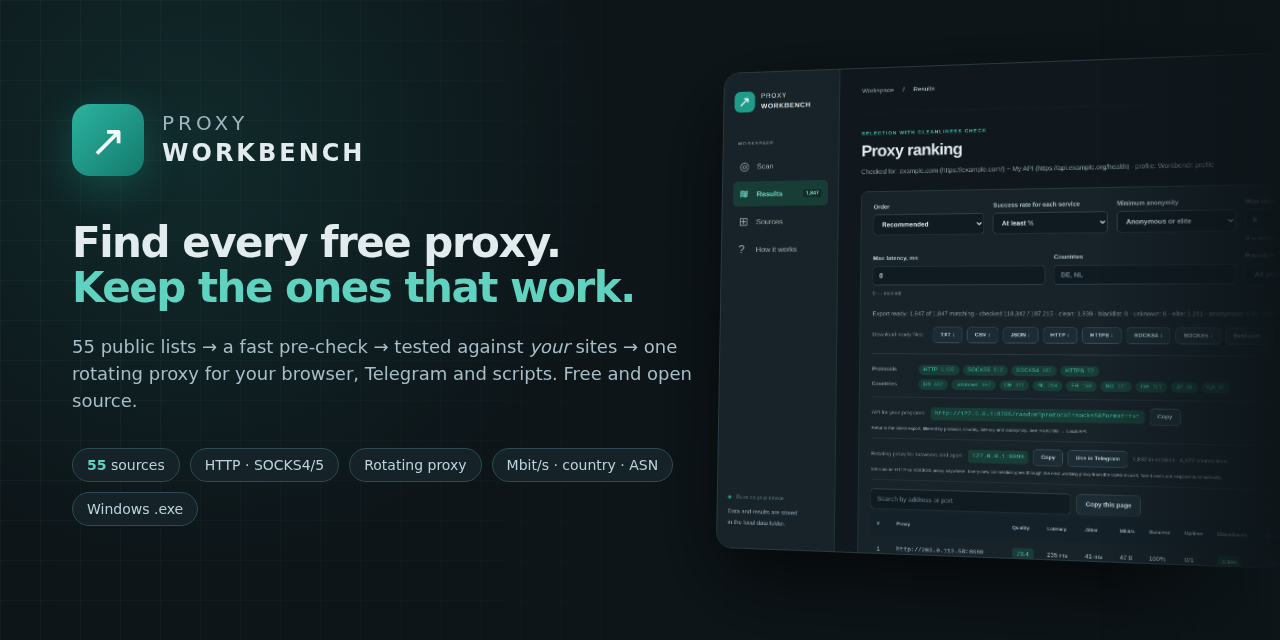
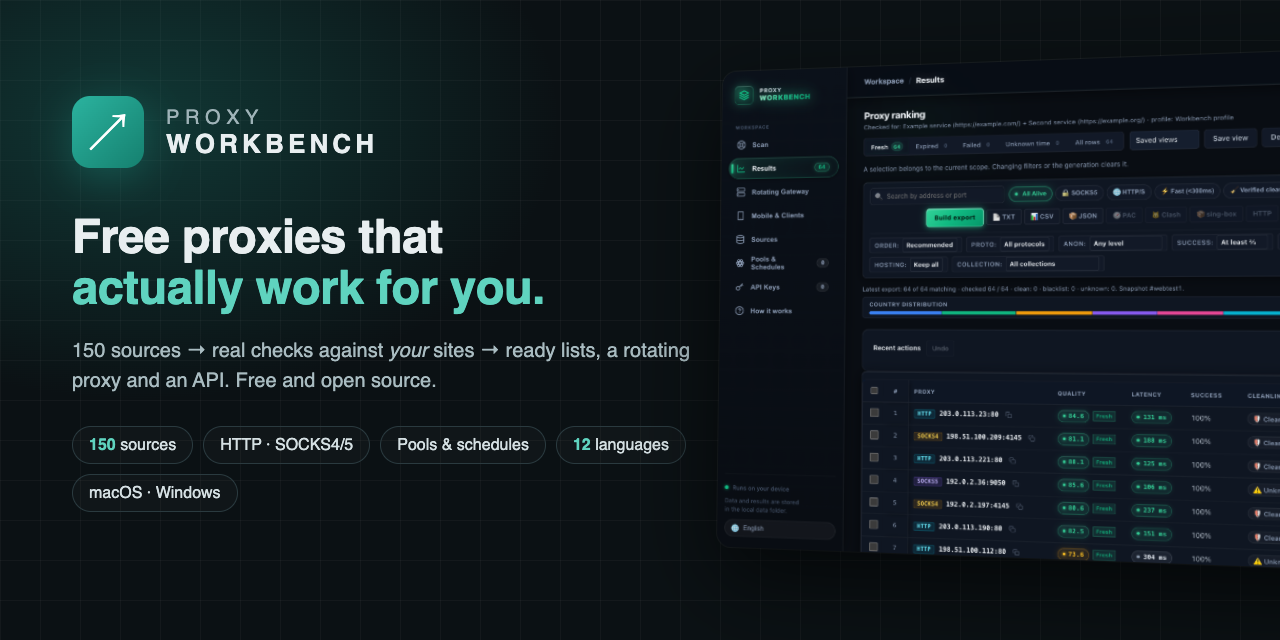
Clearer README headline and intro, new demo animation and social preview

diff --git a/docs/index.html b/docs/index.html
@@ -73,7 +73,7 @@ footer{padding:56px 0 40px;color:var(--muted);font-size:14px;display:flex;flex-w
       <a class="btn" data-repo href="#">★ Star on GitHub</a>
     </div>
     <div class="meta">Free &amp; open source (MIT) · Windows · macOS · Linux · Docker · 12 languages</div>
-    <div class="demo"><img src="assets/demo.gif" alt="Proxy Workbench demo: start a scan, see ranked proxies, filter elite ones" width="960" height="570" loading="lazy"></div>
+    <div class="demo"><img src="assets/demo.gif" alt="Proxy Workbench demo: set up a check, see ranked proxies, filter elite ones, open details, switch language" width="960" height="600" loading="lazy"></div>
   </header>
 
   <section id="features">

diff --git a/README.ru.md b/README.ru.md
@@ -4,9 +4,11 @@
 
 # Proxy Workbench
 
-**Собирает бесплатные публичные прокси из каталога на 150 записей, включая 98 доступных для сбора лент, проверяет каждый на _ваших_ сервисах и оставляет только быстрые, стабильные, чистые и анонимные.**
+### Находит бесплатные прокси, которые реально работают — на нужных вам сайтах
 
-Приложение для macOS и Windows · интерфейс в браузере на 12 языках · CLI · HTTP / HTTPS (CONNECT) / SOCKS4 / SOCKS5 · пулы, расписания и ротирующий шлюз · без аккаунтов и телеметрии
+Программа сама собирает бесплатные прокси из **150 открытых источников**, проверяет каждый на тех сайтах и сервисах, которые нужны **именно вам**, и оставляет только рабочие. Результат — готовые списки, один **ротирующий прокси** для браузера, Telegram и любых программ или **API** для ваших скриптов.
+
+Работает на вашем компьютере: приложение для macOS и Windows, командная строка, Docker · HTTP, HTTPS, SOCKS4, SOCKS5 · 12 языков · без регистрации и телеметрии
 
 ![Python 3.11+](https://img.shields.io/badge/python-3.11%2B-3776AB?logo=python&logoColor=white)
 ![License: MIT](https://img.shields.io/badge/license-MIT-2ea44f)
@@ -22,7 +24,7 @@
 
 <img src="docs/assets/demo.gif" alt="Демо Proxy Workbench: проверка, рейтинг, фильтр элитных прокси" width="100%">
 
-<sub>15 секунд: запуск проверки → рейтинг → фильтр «только элитные» → детали попыток (синтетические данные).</sub>
+<sub>Коротко: настройка проверки → рейтинг → фильтр «только элитные» → детали попыток → источники → смена языка (синтетические данные).</sub>
 
 </div>
 
@@ -30,15 +32,13 @@
 
 > **Статус:** публичная beta. Проект измеряет доступность и задержку; он не обещает анонимность, безопасность или стабильную работу сторонних прокси.
 
-## Зачем это нужно
+## Что делает программа
 
-Списков бесплатных прокси много, но большая часть адресов в них мёртвые, медленные или заблокированы именно на том сайте, который вам нужен. Прокси, который открывает `example.com`, может не работать с вашим API, отдавать капчу с кодом `200` или находиться в спам-блеклисте.
+Списков бесплатных прокси много, но большинство адресов в них мёртвые, медленные или заблокированы как раз на том сайте, который вам нужен. Proxy Workbench делает всю грязную работу за три шага:
 
-**Proxy Workbench отвечает на практический вопрос: _какие из этих прокси действительно работают с моим сервисом прямо сейчас и насколько хорошо?_**
-
-- Собирает кандидатов из десятков публичных списков (или ваших файлов) и убирает дубликаты.
-- Делает **настоящие HTTP(S)-запросы через каждый прокси** ко всем указанным сервисам — несколько раз — и проверяет HTTP-код, текст ответа или SHA-256.
-- Ранжирует прошедшие по **медианной задержке, разбросу и доле успехов**, отмечает **адреса из блеклистов** (локальный denylist + опциональные DNSBL), определяет **уровень анонимности** (прозрачный / анонимный / элитный) и экспортирует TXT / CSV / JSON и готовые списки `host:port` по протоколам.
+1. **Собирает.** Скачивает адреса из 150 открытых источников (106 подключены сразу) или из ваших файлов и убирает дубликаты.
+2. **Проверяет.** Отправляет через каждый прокси настоящие запросы к вашим сайтам — по несколько раз — и смотрит код ответа, нужный текст на странице и скорость. Дополнительно определяет страну, анонимность (прозрачный / анонимный / элитный) и чистоту IP.
+3. **Отдаёт готовое.** Лучшие прокси — в файлах TXT / CSV / JSON, в конфигурациях для браузера, Clash и sing-box, через ротирующий прокси `127.0.0.1:8899` или через API. Пулы и расписания держат список свежим сами.
 
 Всё работает на вашем компьютере. Интерфейс слушает только `127.0.0.1`.
 

diff --git a/README.md b/README.md
@@ -4,9 +4,11 @@
 
 # Proxy Workbench
 
-**Collect free public proxies from a catalog of 150 entries with 106 collectable feeds, test every one against _your_ services, and keep only the fast, stable, clean and anonymous ones.**
+### Finds free proxies that actually work — on the sites you need
 
-Desktop app for macOS and Windows · browser GUI in 12 languages · CLI · HTTP / HTTPS (CONNECT) / SOCKS4 / SOCKS5 · pools, schedules and a rotating gateway · no accounts, no telemetry
+Proxy Workbench collects free proxies from **150 public sources**, tests every one against the sites and services **you** care about, and keeps only the ones that work. You get ready-made lists, one **rotating proxy** for your browser, Telegram and any app, or an **API** for your scripts.
+
+Runs on your own computer: macOS and Windows app, command line, Docker · HTTP, HTTPS, SOCKS4, SOCKS5 · 12 languages · no sign-up, no telemetry
 
 ![Python 3.11+](https://img.shields.io/badge/python-3.11%2B-3776AB?logo=python&logoColor=white)
 ![License: MIT](https://img.shields.io/badge/license-MIT-2ea44f)
@@ -22,21 +24,19 @@ Desktop app for macOS and Windows · browser GUI in 12 languages · CLI · HTTP 
 
 <img src="docs/assets/demo.gif" alt="Proxy Workbench demo: scan, rank, filter elite proxies" width="100%">
 
-<sub>15-second tour: start a scan → ranking → “Elite only” filter → per-attempt details (synthetic data).</sub>
+<sub>Quick tour: set up a check → ranking → “Elite only” filter → per-attempt details → sources → switching language (synthetic data).</sub>
 
 </div>
 
 ---
 
-## Why
+## What it does
 
-Free proxy lists are everywhere, but most of what they contain is dead, slow, or blocked by the site you actually care about. A proxy that answers `example.com` may still fail your API, return a captcha page with status `200`, or sit on a spam blacklist.
+Free proxy lists are everywhere, but most addresses in them are dead, slow or blocked by exactly the site you care about. Proxy Workbench does the tedious part for you:
 
-**Proxy Workbench answers one practical question: _which of these proxies really work for my service, right now, and how well?_**
-
-- It gathers candidates from dozens of public lists (or your own files) and de-duplicates them.
-- It sends **real HTTP(S) requests through each proxy** to every service you specify — several times — and checks status codes, body text, or even a SHA-256 of the response.
-- It ranks survivors by **median latency, jitter and success rate**, flags **blacklisted IPs** (local denylist + optional DNSBL), rates **anonymity** (transparent / anonymous / elite) and exports TXT / CSV / JSON plus ready-to-use `host:port` lists per protocol.
+1. **Collect.** Downloads addresses from 150 public sources (106 enabled out of the box) or your own files and removes duplicates.
+2. **Check.** Sends real requests through every proxy to your sites — several times — and checks the status code, required text on the page and speed. It also finds the country, the anonymity level (transparent / anonymous / elite) and whether the IP is blacklisted.
+3. **Deliver.** The best proxies land in TXT / CSV / JSON files, browser, Clash and sing-box configs, a rotating proxy at `127.0.0.1:8899`, and an API. Pools and schedules keep the list fresh on their own.
 
 Everything runs on your machine. The GUI binds to `127.0.0.1` only.
 
